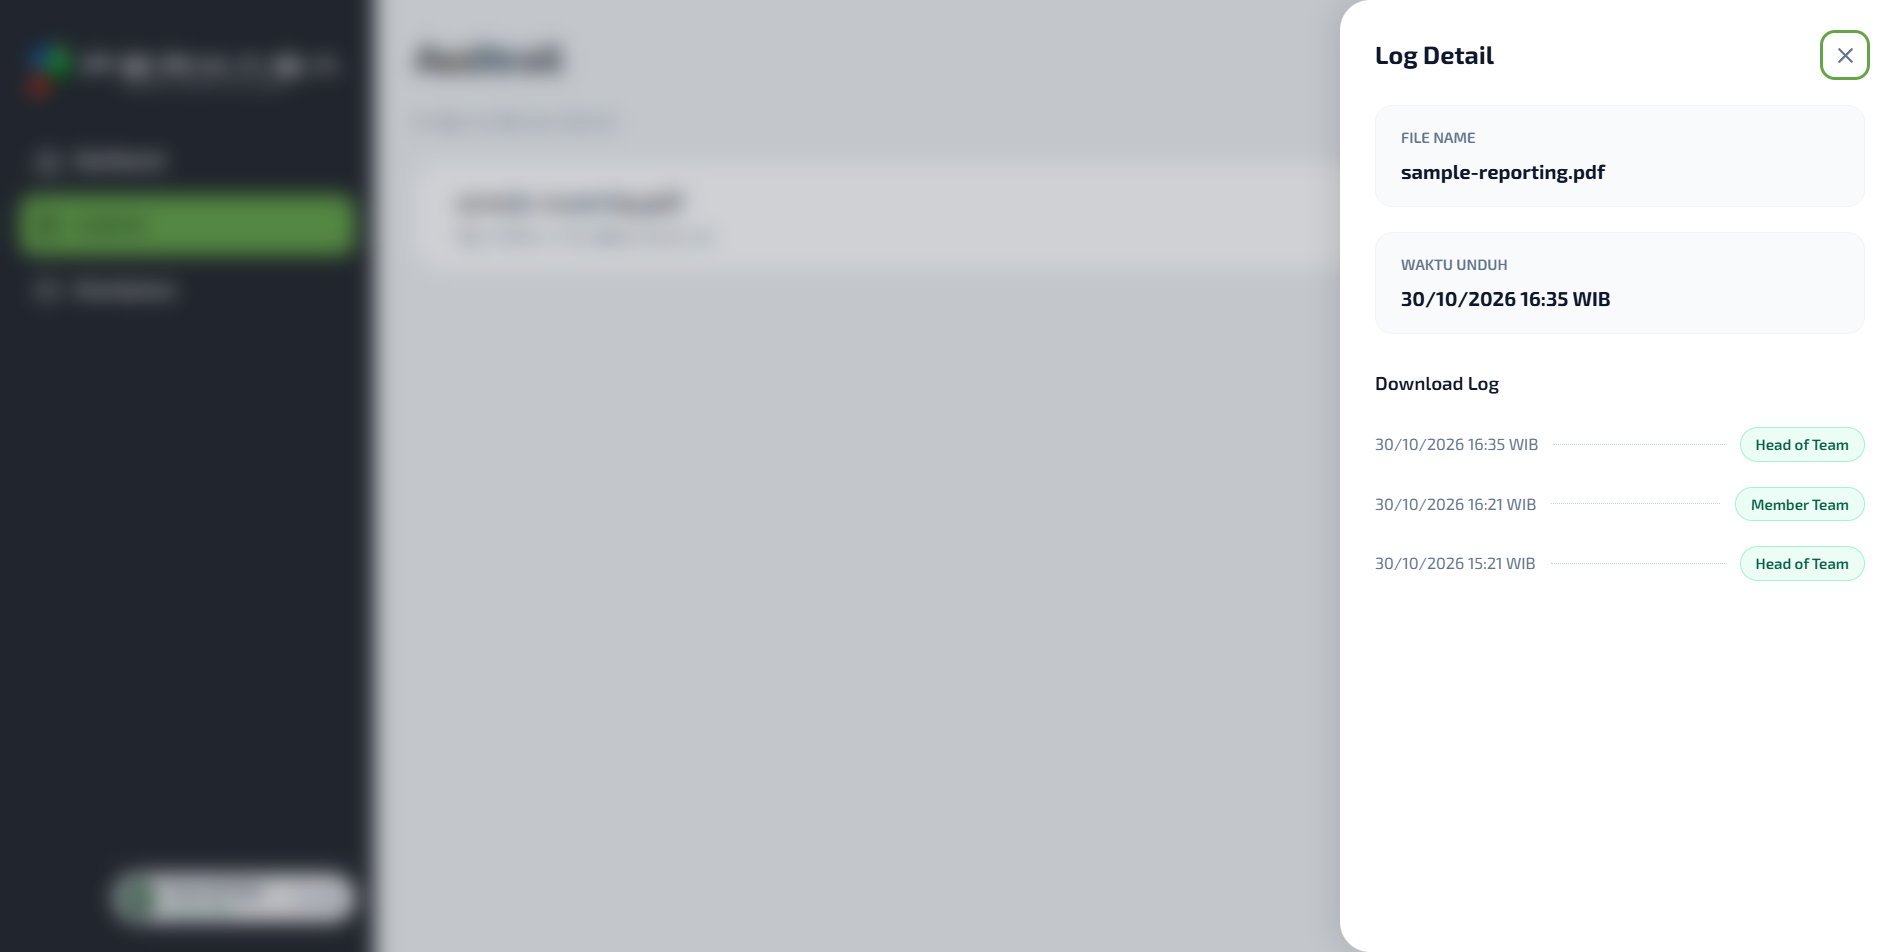
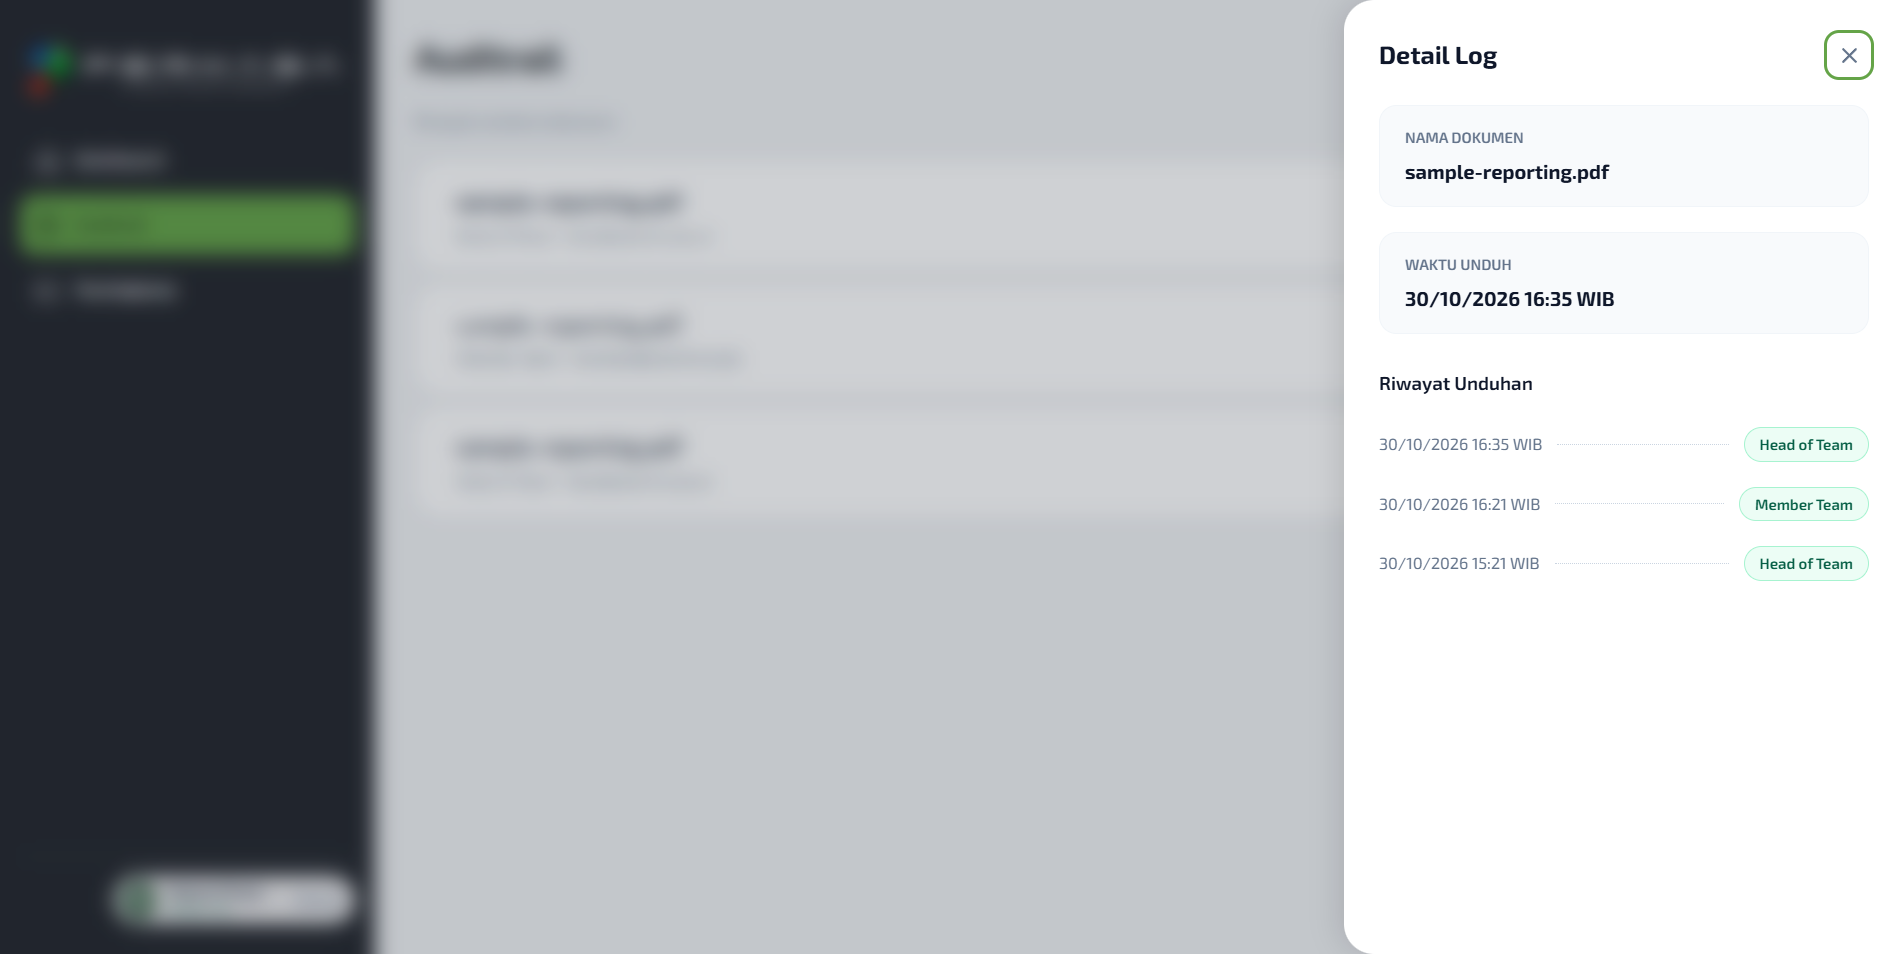
docs(fe-s4-02): record Run 4 walkthrough evidence on head 9fca9b7 [FE-S4-02]

diff --git a/docs/screenshots/FE-S4-02/EVIDENCE.md b/docs/screenshots/FE-S4-02/EVIDENCE.md
@@ -9,6 +9,48 @@
 
 ---
 
+### Run 4 — Walkthrough AC-12.01 pada head 9fca9b7 (2026-11-03)
+
+Dijalankan secara interaktif melalui browser Chromium lokal (Chrome DevTools MCP) terhadap stack lokal terintegrasi (Bun 1.4.3, PostgreSQL, Redis, MinIO di Docker Desktop 29.6.1, Hono API `http://localhost:3001`, React/Vite Web `http://localhost:5173`). Walkthrough memakai login UI resmi untuk akun seed `head_of_team`; fixture dokumen sintetis `sample-reporting.pdf`; 11 audit event tersimpan di database lokal.
+
+```text
+AC:          AC-12.01 (Tracking Log Unduhan)
+Card:        FE-S4-02
+Commit:      9fca9b7725a3740cada5ab8493338085f4e5ac37
+Environment: local, Web http://localhost:5173, API http://localhost:3001, Bun 1.4.3, Docker Desktop 29.6.1, Chromium
+Role:        head_of_team (head@axentra.local, login UI resmi); member_team route check attempted
+Input:       sample-reporting.pdf (fixture sintetis), 11 event unduhan
+Status:      Recorded, release pending (sign-off akhir oleh Arya Isnaidi)
+```
+
+| Langkah | Deskripsi Uji                                            | Hasil yang Diharapkan                                                                                                                                               | Hasil yang Diamati                                                                                                                                                                                                                        | Status                  |
+| ------- | -------------------------------------------------------- | ------------------------------------------------------------------------------------------------------------------------------------------------------------------- | ----------------------------------------------------------------------------------------------------------------------------------------------------------------------------------------------------------------------------------------- | ----------------------- |
+| **A**   | Lihat daftar utama                                       | Satu kartu per event unduhan; menampilkan nama dokumen, pengguna, dan waktu `dd/mm/yyyy HH:mm WIB`. Dua event untuk dokumen sama tampil sebagai dua kartu terpisah. | Halaman 1 menampilkan 10 kartu event individual (dari 11 event di DB); `sample-reporting.pdf` tampil dengan pengguna dan waktu WIB per event.                                                                                             | **Pass**                |
+| **B**   | Teks hitungan di bawah daftar                            | `Menampilkan x–y dari N aktivitas unduhan`; jumlah kartu sama dengan `y − x + 1`.                                                                                   | Halaman 1: `Menampilkan 1–10 dari 11 aktivitas unduhan` (10 kartu). Halaman 2: `Menampilkan 11–11 dari 11 aktivitas unduhan` (1 kartu).                                                                                                   | **Pass**                |
+| **C**   | Klik satu kartu                                          | Drawer `Detail Log` terbuka; fokus berpindah ke tombol tutup; scroll latar belakang terkunci.                                                                       | Drawer dialog terbuka dengan backdrop blur; fokus otomatis ke `Tutup detail log`; `document.body.style.overflow` menjadi `hidden`.                                                                                                        | **Pass**                |
+| **D**   | Tekan Tab/Shift+Tab di drawer                            | Fokus tetap di drawer, tidak keluar ke halaman di belakang.                                                                                                         | Snapshot browser setelah Tab dan Shift+Tab menunjukkan fokus tetap pada tombol `Tutup detail log` di dalam drawer.                                                                                                                        | **Pass**                |
+| **E**   | Tekan Escape                                             | Drawer tertutup; fokus kembali ke kartu pemicu; scroll kembali normal.                                                                                              | Dialog tertutup; fokus keyboard kembali tepat ke kartu pemicu; body scroll dipulihkan.                                                                                                                                                    | **Pass**                |
+| **F**   | Cari nama pengguna                                       | Hanya event cocok yang tampil.                                                                                                                                      | Belum diverifikasi interaktif: pemeriksaan alat browser tidak berhasil mengosongkan input type=search secara deterministik. Presenter/unit code membatasi filter ke halaman server yang aktif.                                            | **Not verified**        |
+| **G**   | Cari teks acak `zzz-tidak-ada`                           | Tertulis `Tidak ada hasil yang ditemukan`.                                                                                                                          | Pesan BA tampil persis; hitungan menunjukkan `0 hasil pada halaman 1 dari 1; total 3 aktivitas unduhan`.                                                                                                                                  | **Pass**                |
+| **H**   | Paginasi dengan 11 event                                 | Halaman 2 memuat event lebih lama; tombol sebelumnya aktif; tombol berikutnya nonaktif dengan tooltip `Sudah di halaman terakhir`.                                  | Halaman 1: 10 dari 11; setelah klik berikutnya halaman 2 dari 2 menampilkan event ke-11, tombol sebelumnya aktif, tombol berikutnya nonaktif dan berlabel `Sudah di halaman terakhir`.                                                    | **Pass**                |
+| **I**   | Sidebar                                                  | Menu `Auditrail` aktif; logo PERKASA tampil.                                                                                                                        | Logo PERKASA tampil; menu `Auditrail` memiliki state aktif/highlight.                                                                                                                                                                     | **Pass**                |
+| **J**   | Logout, login sebagai `member_team`, buka `/audit-trail` | Halaman riwayat tidak dapat diakses oleh role yang tidak diizinkan.                                                                                                 | **Not verified**: akun `member@axentra.local` menolak password uji dengan pesan `Email atau kata sandi salah`; tanpa login, akses membuka halaman login. Test integrasi role gate memverifikasi `member_team` diblokir tanpa request API. | **Not verified (live)** |
+| **K**   | Periksa seluruh teks halaman/drawer                      | Tidak ada label UI bahasa Inggris, selain title tab browser.                                                                                                        | Label dan pesan yang diuji dalam bahasa Indonesia.                                                                                                                                                                                        | **Pass**                |
+
+#### Screenshot Bukti Run 4:
+
+- [Daftar utama — 10 event per halaman](audit-trail-2026-11-03-list.png)
+- [Drawer Detail Log](audit-trail-2026-11-03-drawer.png)
+- [Pencarian kosong](audit-trail-2026-11-03-search-empty.png)
+- [Paginasi halaman 2](audit-trail-2026-11-03-pagination-page2.png)
+
+![Audit Trail List Run 4](audit-trail-2026-11-03-list.png)
+![Audit Trail Detail Drawer Run 4](audit-trail-2026-11-03-drawer.png)
+![Audit Trail Search Empty Run 4](audit-trail-2026-11-03-search-empty.png)
+![Audit Trail Pagination Page 2 Run 4](audit-trail-2026-11-03-pagination-page2.png)
+
+---
+
 ### Run 3 — Walkthrough UI AppShell & Drawer (Commit `918496346ecf45ba972b076319613080b79ac516`, 2026-11-02)
 
 Historical walkthrough from the pre-accessibility-fix commit. It demonstrated the shell and drawer with local API data, but does not verify the current review head `7920bda` or the Round 3 changes. Re-run is blocked in the current environment because Docker Desktop's Linux engine is unavailable; API startup returns `ECONNREFUSED`.
